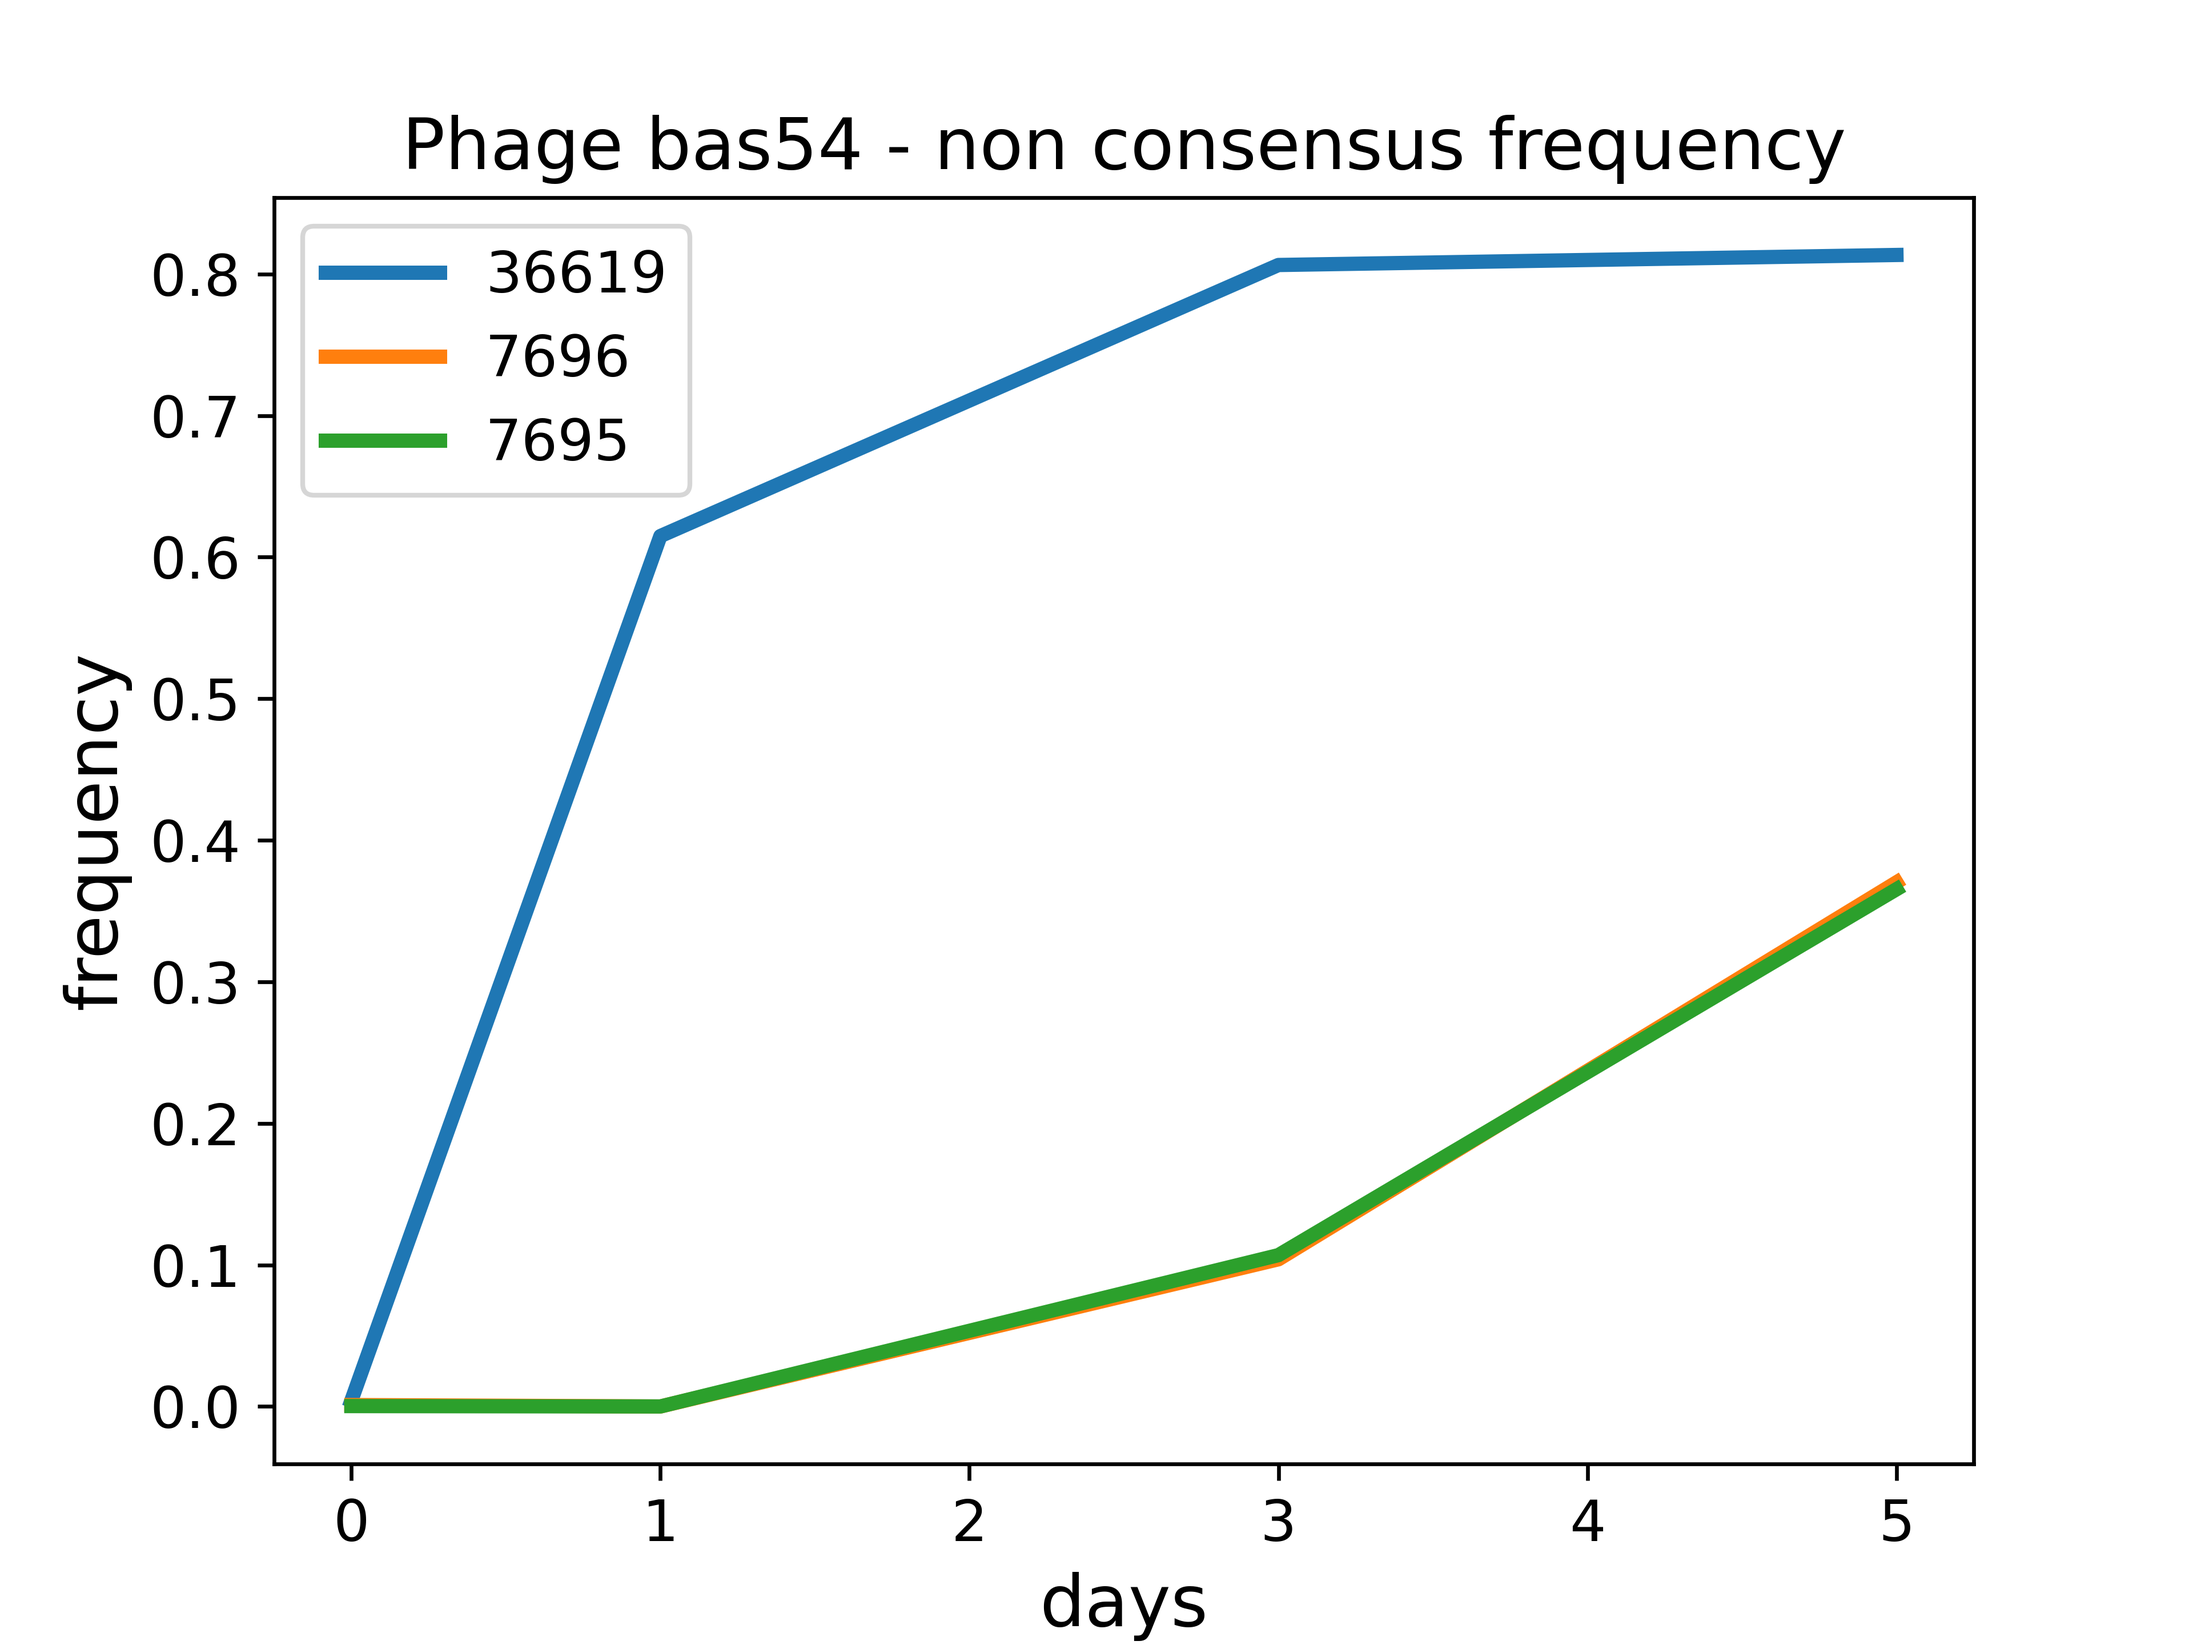
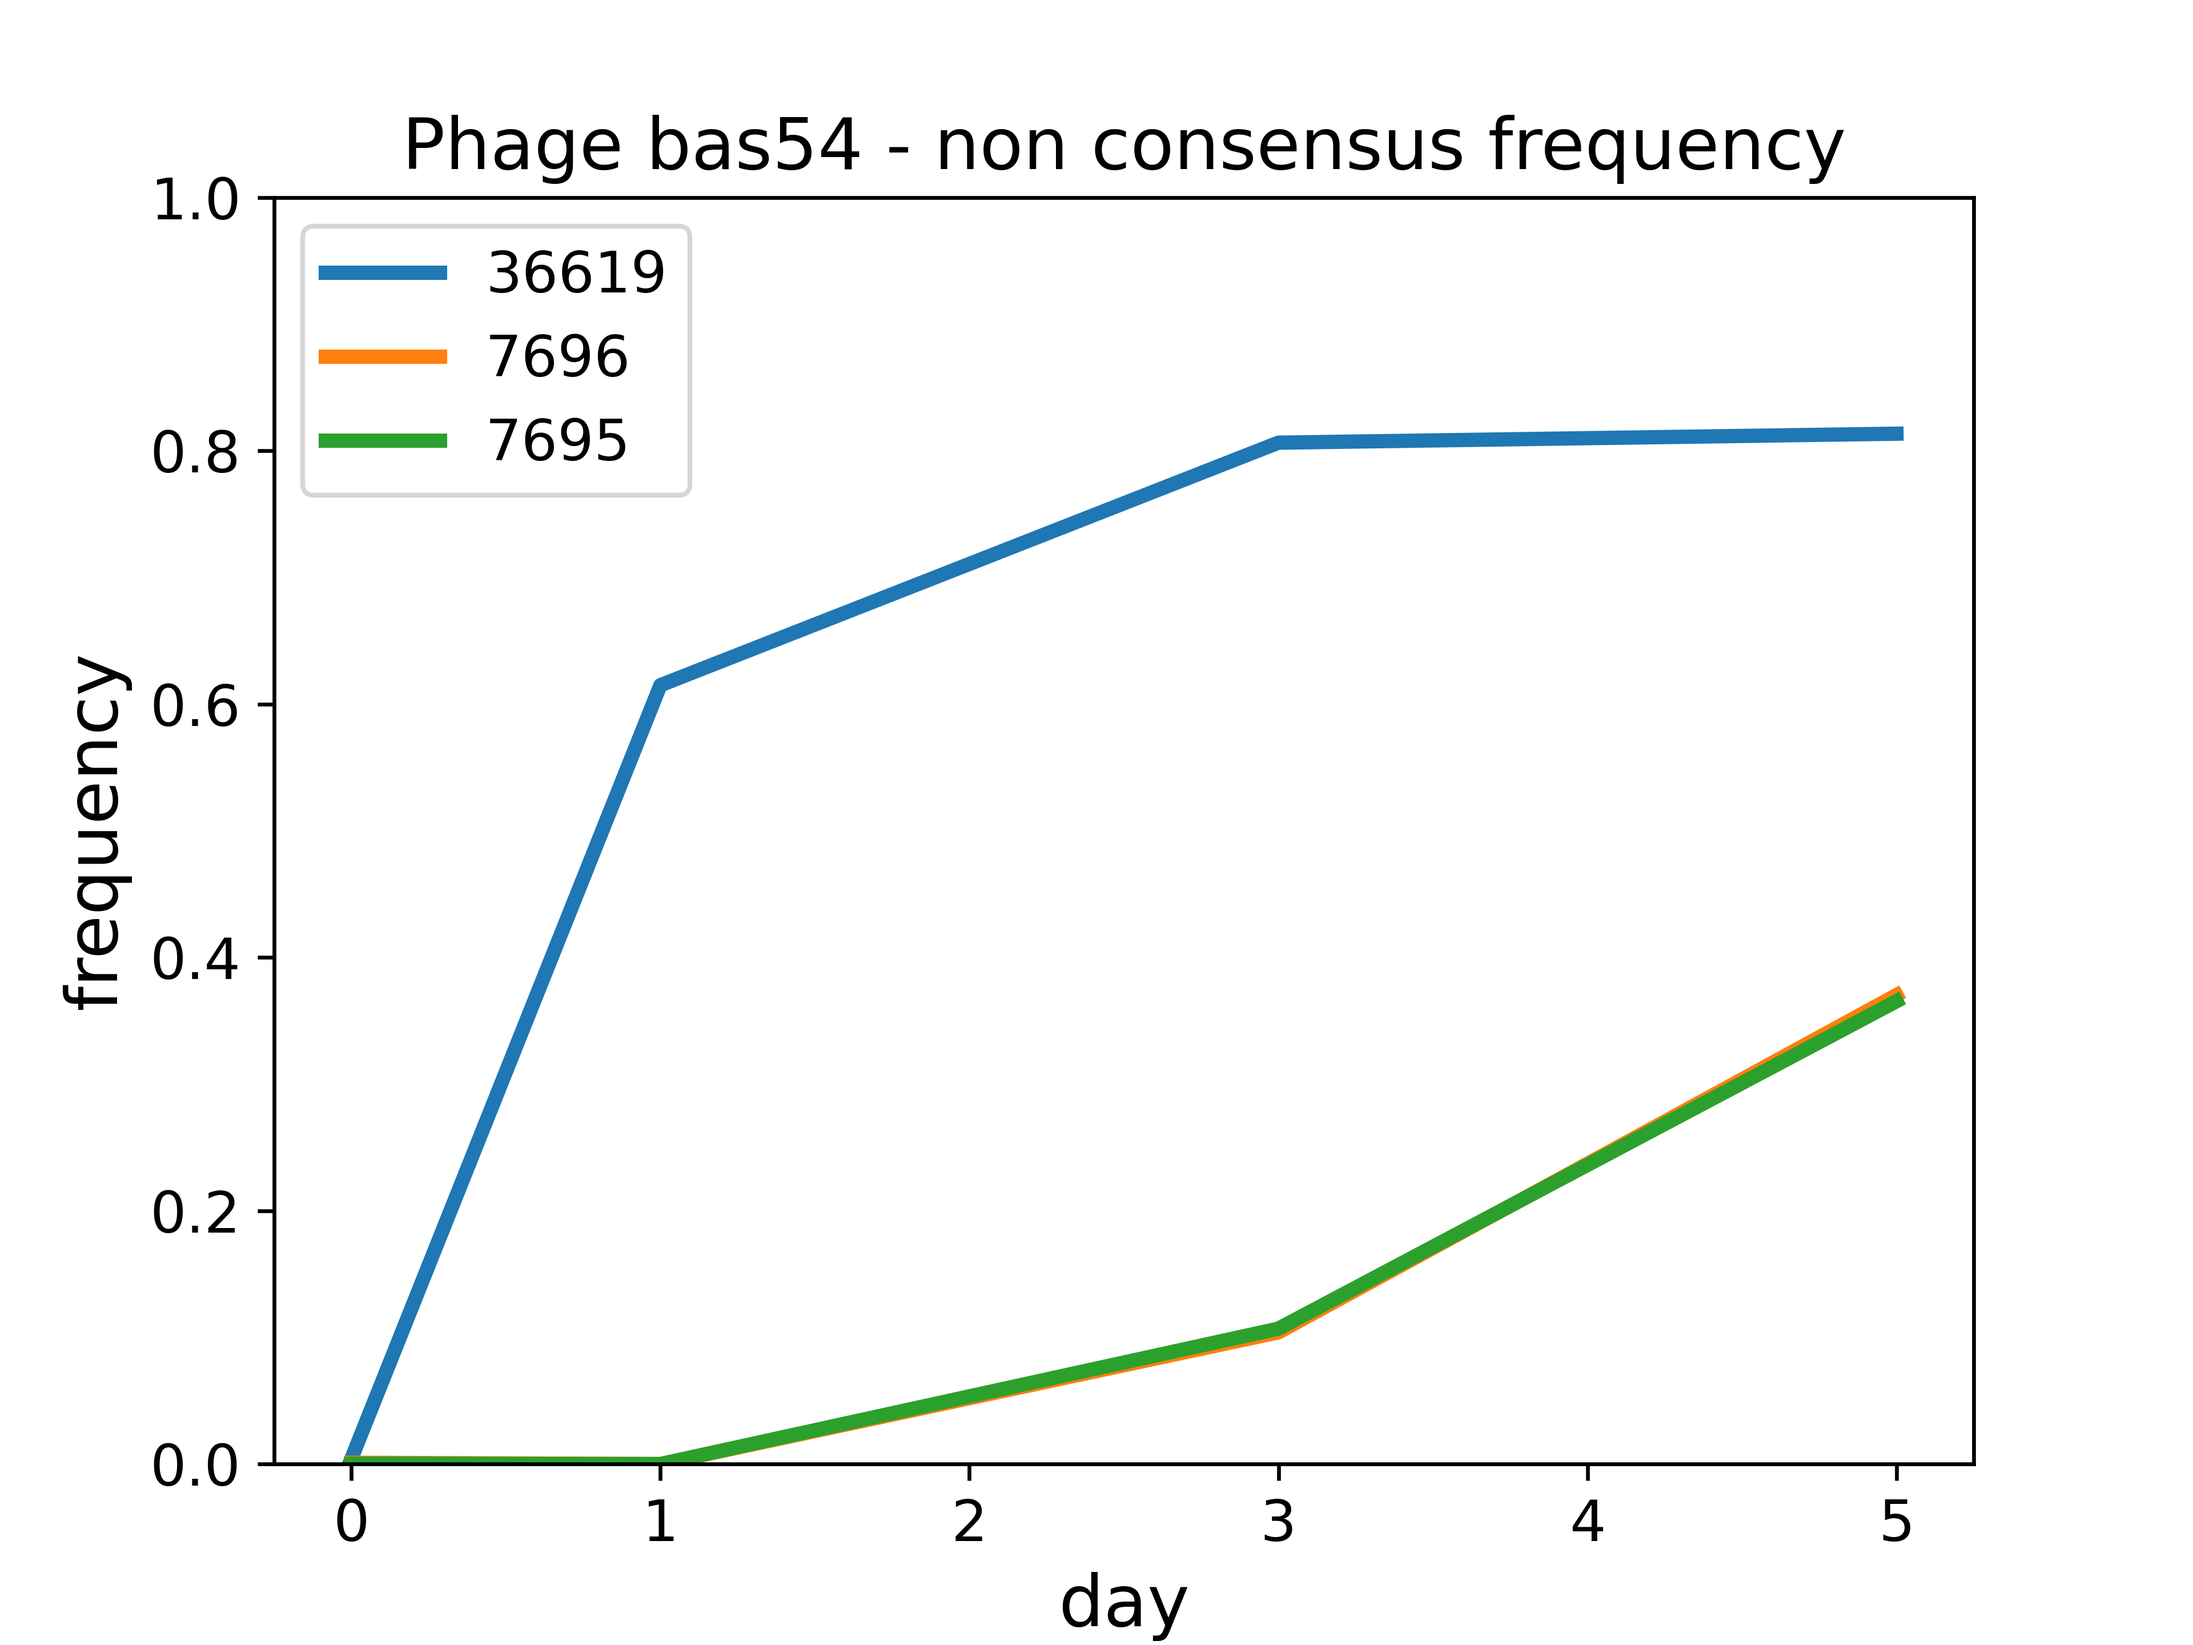
fixed plot y axis

diff --git a/plots_for_thesis.py b/plots_for_thesis.py
@@ -113,8 +113,9 @@ if __name__ == "__main__":
                     par_lab="non consensus frequency"
                 else: par_lab=parameter
                 plt.title(str('Phage '+phage_lab+' - '+par_lab))
-                plt.xlabel('days')
+                plt.xlabel('day')
                 plt.ylabel('frequency')
+                plt.ylim(0,1)
             plt.legend(to_plot.keys())
 
             frequencies_on_time.savefig(f'thesis/{phage}_time_{parameter}.png', dpi=600)
